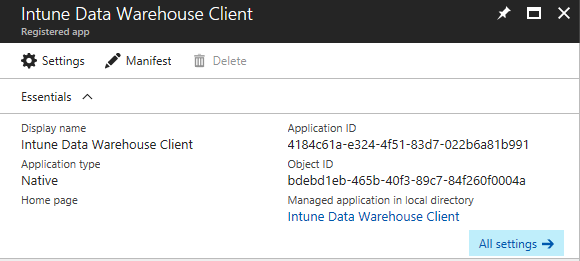
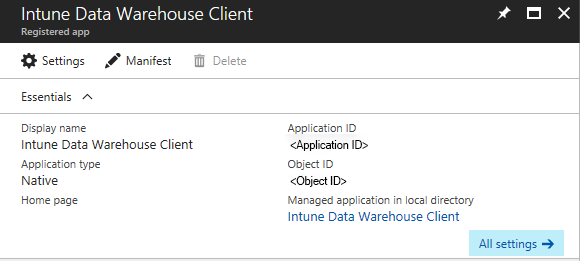
updated graphics and fixed formatting issues

Changed region(s): [[0.4966, 0.5211, 0.931, 0.5824], [0.4966, 0.6743, 0.931, 0.7356]]

diff --git a/intune/reports-proc-data-rest.md b/intune/reports-proc-data-rest.md
@@ -43,9 +43,9 @@ running on your local machine references the Intune Data Warehouse API when the 
 1. Sign in to the Azure portal for your tenant. Choose **Azure Active Directory** > **App Registrations** to open the **App registrations** blade.
 2. Click **New app registration**.
 3. Type the app details.
-    -  Type a friendly name, such as Intune Data Warehouse Client, for the **Name**.
-    -  Select **Native** for the **Application type**.
-    -  Type a URL for the **Sign-on URL**. The Sign-on URL will depend on the specific scenario, however if you plan on using Postman, type 
+    1.  Type a friendly name, such as Intune Data Warehouse Client, for the **Name**.
+    2.  Select **Native** for the **Application type**.
+    3.  Type a URL for the **Sign-on URL**. The Sign-on URL will depend on the specific scenario, however if you plan on using Postman, type 
      `https://www.getpostman.com/oauth2/callback`. You will use the callback for client authentication step when authenticating to Azure AD.
 4.  Click **Create**.
 
@@ -53,11 +53,11 @@ running on your local machine references the Intune Data Warehouse API when the 
 
 5. Note the **Application ID** of this app. You will use the ID in the next section.
 6. If you plan on using Postman, add a key. They key is used as the client secret with authentication to Azure AD. To add a key:
-    -  Click **Keys** under **API Access** In the Settings blade for the app.
-    -  Type a name of your key such as Client-Secret for the **Description**.
-    -  Select **1 year** for the Duration.
-    -  Click **Save**. 
-    -  Copy the value of your key. You won’t be able to retrieve the key after you close the **Settings** blade for the Keys.
+    1.  Click **Keys** under **API Access** In the Settings blade for the app.
+    2.  Type a name of your key such as Client-Secret for the **Description**.
+    3.  Select **1 year** for the Duration.
+    4.  Click **Save**. 
+    5.  Copy the value of your key. You won’t be able to retrieve the key after you close the **Settings** blade for the Keys.
 
 ## Grant the native app access to the Microsoft Intune API
 
@@ -105,13 +105,13 @@ You need the endpoint. In this example, we are going to retrieve data from the *
 
 To get a new access token for Postman, you must add the Azure AD authorization URL, add your Client ID, and Client Secret. Postman will load the authorization page where you will type your credentials.
 
-#### Add the information used to request the token.
+#### Add the information used to request the token
 
 1.	Download Postman if you do not already have it installed. To download Postman, see [www.getpostman](https://www.getpostman.com).
 2.	Open Postman. Choose the HTTP operation **GET**.
 3.	Paste the endpoint URL into the address. It should look something like:  
 
-    `https://fef.msua06.manage.microsoft.com/ReportingService/DataWarehouseFEService/dates?api-version=beta`.
+    `https://fef.msua06.manage.microsoft.com/ReportingService/DataWarehouseFEService/dates?api-version=beta`
 4.	Choose the **Authorization** tab, and select **OAuth 2.0** from the **Type** list.
 5.	Click **Get New Access Token**.
 6.	Verify that you have already added the Callback URL to your app in Azure. The Callback URL is `https://www.getpostman.com/oauth2/callback`.
@@ -137,10 +137,9 @@ To get a new access token for Postman, you must add the Azure AD authorization U
 
     ![Information for the token](media\reports-postman_getnewtoken.png)
 
-14. Type your credentials in the Active AD authorization page.
-15. Type your credentials in the authorization window for your client. The list of Existing Tokens in Postman now contains the token named `Bearer.`
+14. Type your credentials in the Active AD authorization page. The list of Existing Tokens in Postman now contains the token named `Bearer`.
 16. Choose the token. Select **Header** for Add token to.
-17. Click **Use Token**. The list of headers contains the new key value of Authorization and the value `Bearer <your-authorization-token>`
+17. Click **Use Token**. The list of headers contains the new key value of Authorization and the value `Bearer <your-authorization-token>`.
 
 #### Send the call to the endpoint using Postman
 
@@ -197,8 +196,8 @@ namespace IntuneDataWarehouseSamples
     */
    var emailAddress = "intuneadmin@yourcompany.com";
    var password = "password_of(intuneadmin@yourcompany.com)";
-   var applicationId = "8d699e29-3b54-4c6a-91cc-e537b4680fed";
-   var warehouseUrl = "https://fef.msua01.manage.microsoft.com/ReportingService/DataWarehouseFEService?api-version=beta";
+   var applicationId = "<Application ID>";
+   var warehouseUrl = "https://fef.{yourinfo}.manage.microsoft.com/ReportingService/DataWarehouseFEService?api-version=beta";
    var collectionName = "dates";
 
    var adalContext = new AuthenticationContext("https://login.windows.net/common/oauth2/token");
@@ -222,14 +221,14 @@ namespace IntuneDataWarehouseSamples
     ```
 
 8.  Update the `TODO`s in the code sample.
-8.  Press **Ctrl + F5** to build and execute the Intune.DataWarehouseAPIClient client in Debug mode.
+9.  Press **Ctrl + F5** to build and execute the Intune.DataWarehouseAPIClient client in Debug mode.
 
     ![Date entity retrieved in JSON format.](media\reports-get_rest_data_output.png)
 
-9.  Review the console output. The output contains data in a JSON format pulled from the **dates** entity in your Intune tenant.
+10.  Review the console output. The output contains data in a JSON format pulled from the **dates** entity in your Intune tenant.
 
 ## Next steps
 
-You can find details on authorization, the API URL structure, and OData endpoints in the [Use the Intune Data Warehouse API](reports-api-url.md). 
+You can find details on authorization, the API URL structure, and OData endpoints in [Use the Intune Data Warehouse API](reports-api-url.md). 
 
 You can also refer to the Intune Data Warehouse Data Model to find the data entities contained in the API. For more information, see [Intune Data Warehouse API Data Model](reports-ref-data-model.md)

diff --git a/intune/reports-proc-get-a-link-powerbi.md b/intune/reports-proc-get-a-link-powerbi.md
@@ -65,18 +65,18 @@ With a client authenticated to Azure AD, the OData URL connects to the RESTful e
 
 1.  Sign in to the Azure portal and choose **Monitoring + Management** > **Intune**. You can also search resources for **Intune**.  
 2.  Open the **Microsoft Intune Data Warehouse API (Preview)** blade.
-3. Retrieve the custom feed URL from the reporting blade, for example `https://fef.{yourinfo}.manage.microsoft.com/ReportingService/DataWarehouseFEService/dates?api-version=beta`.
+3. Retrieve the custom feed URL from the reporting blade, for example `https://fef.{yourinfo}.manage.microsoft.com/ReportingService/DataWarehouseFEService/dates?api-version=beta`
 4. Open **Power BI Desktop**.
 5. Choose **Home** > **Get Data**. Select **OData feed**.
 6. Choose **Basic**.
 7. Type or paste the **OData URL** into the URL box.
 8. Click **OK**.
-9. If you have not authenticated to Azure AD for your tenant from the Power BI desktop client, type your credentials.
-    a.  Select **Organizational account**.  
-    b.  Type your username and password.  
-    c.  Click **Sign In.**  
-    d.  Click **Connect**.  
-8.  Click **Load**.
+9. If you have not authenticated to Azure AD for your tenant from the Power BI desktop client, type your credentials.  
+    1.  Select **Organizational account**.  
+    2.  Type your username and password.  
+    3.  Click **Sign In.**  
+    4.  Click **Connect**.  
+10. Click **Load**.
 
 ## Next steps
 
